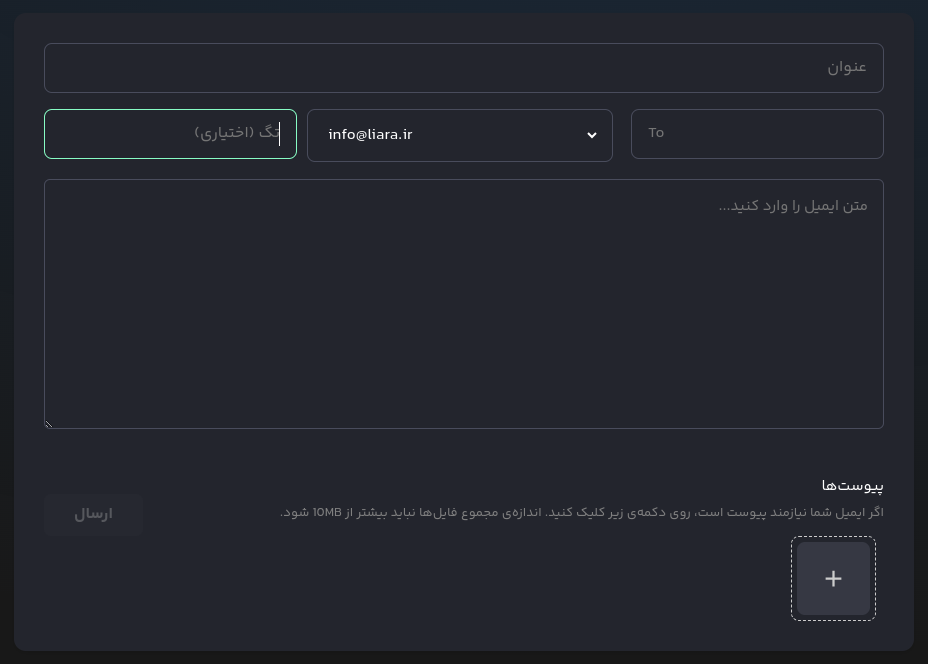
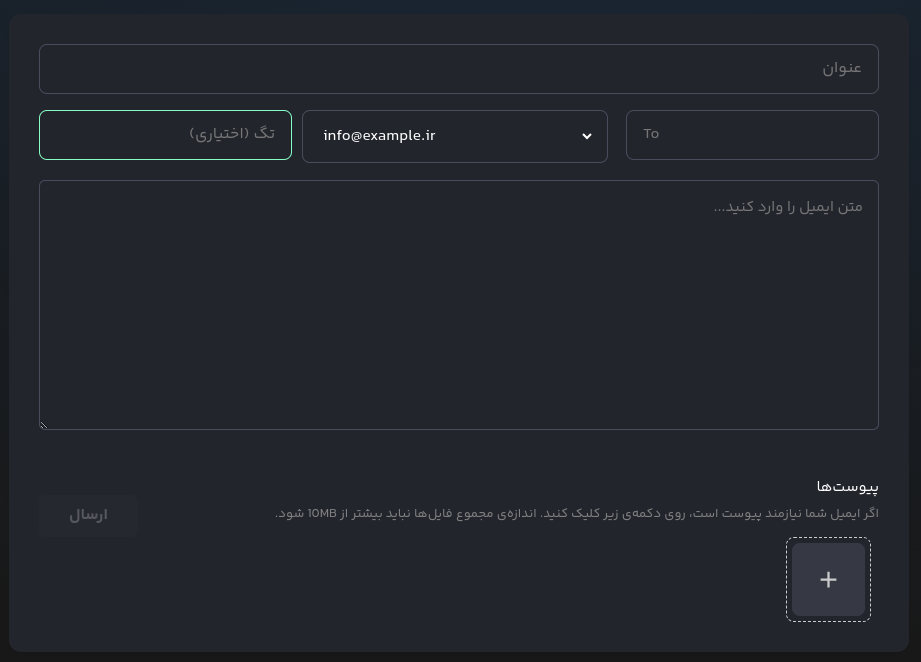
fix: enhance formal writing & modify screenshot

diff --git a/pages/email/email-tag.js b/pages/email/email-tag.js
@@ -37,14 +37,14 @@ export default () => (
 
     <p>
      از تگها برای دستهبندی نوع ایمیل ارسالی و ایجاد گزارشات به کار میرود.
-      برای مثال، میتوانید برای ایمیلها، تگ خوشآمدگویی، کنسل خرید، درخواست بازگشت پول، تمدید حساب کاربری و ... تنظیم کنید و در بخش گزارشات، تعداد ارسال این ایمیلها رو بررسی کنید.
-      این اطلاعات به کسبوکار شما کمک میکند تا آمار دقیقتری از رفتار مشتریان خود به دست بیاورید. در ادامه نحوه استفاده از تگ در سرویس ایمیل لیارا رو بررسی خواهیم کرد.
+      برای مثال، میتوانید برای ایمیلها، تگ خوشآمدگویی، کنسل خرید، درخواست بازگشت پول، تمدید حساب کاربری و ... تنظیم کنید و در بخش گزارشات، تعداد ارسال این ایمیلها را بررسی کنید.
+      این اطلاعات به کسبوکار شما کمک میکند تا آمار دقیقتری از رفتار مشتریان خود به دست بیاورید. در ادامه نحوه استفاده از تگ در سرویس ایمیل لیارا را بررسی خواهیم کرد.
     </p>
 
      <h3 id="tag-via-smtp">ارسال تگ با SMTP</h3>
 
     <p>
-    برای تگ گذاری در SMTP client، لازم هست که <span className="code">x-liara-tag</span> رو در بخش headers تنظیم کنید. مثال زیر نمونهای از نحوه ست کردن می باشد.
+    برای تگ گذاری در SMTP client، باید <span className="code">x-liara-tag</span> را در بخش headers تنظیم کنید. در نمونهی زیر، نحوهی تنظیم این هدر را میبینید:
     </p>
 
       <Highlight className="javascript">
@@ -82,7 +82,7 @@ transporter
     <h3 id="tag-via-console"> ارسال تگ از طریق کنسول لیارا</h3>
 
     <p>
-    برای ارسال تگ از طریق کنسول لیارا، در بخش تگ، نام تگ مورد نظر خودتون رو وارد کنید.
+    برای ارسال تگ از طریق کنسول لیارا، در بخش تگ، نام تگ مورد نظرتان  را وارد کنید.
     </p>
 
     <ZoomableImage src="/static/send-mail-tag-via-console.png" />
@@ -90,7 +90,7 @@ transporter
     <h3 id="tag-via-console">گزارشات تگها</h3>
 
     <p>
-   در بخش گزارشات ایمیل، میتوانید تعداد تگهای ارسالی در روزهای اخیر رو مشاهده کنید. در بخش پایین نمودار،  میتوانید نمایش یک تگ را بسته و یا باز کنید. </p>
+   در بخش گزارشات ایمیل، میتوانید تعداد تگهای ارسالی در روزهای اخیر را مشاهده کنید. در بخش پایین نمودار، میتوانید نمایش یک تگ را بسته و یا باز کنید. </p>
 
     <ZoomableImage src="/static/.png" />
 
